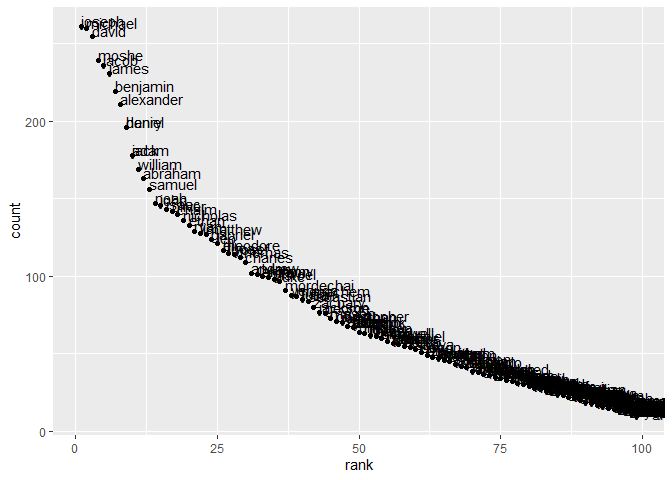
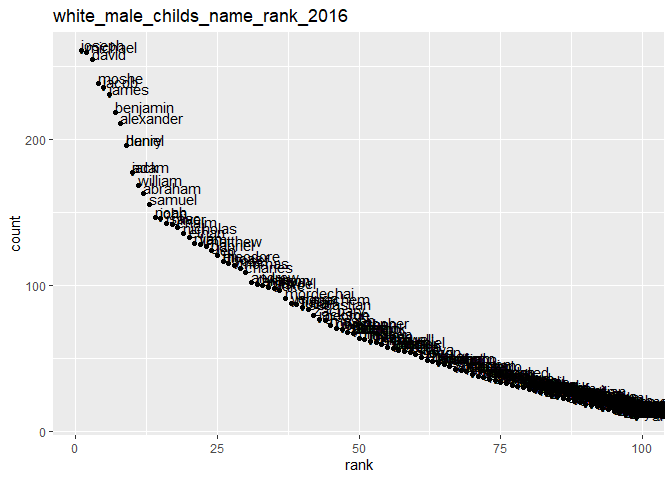
some editings

diff --git a/p8105_hw2.md b/p8105_hw2.md
@@ -10,7 +10,7 @@ library(readxl)
 
 # Problem 1
 
-## Problem 1 (1)
+## Problem 1 (a)
 
 Read and clean the Mr. Trash Wheel sheet:
 
@@ -54,7 +54,7 @@ trashw_df =
 
     ## Warning in FUN(X[[i]], ...): unable to translate '<U+00E5>' to native encoding
 
-## Problem 1 (2)
+## Problem 1 (b)
 
 Read and clean precipitation data for 2018 and 2019. For each, omit rows
 without precipitation data and add a variable for year. Next, combine
@@ -178,9 +178,12 @@ Resulting dataset combined three above datasets together. The dimension
 of “union3\_df” is 828, 11 indicating rows and columns respectively. The
 range of years is \[1947, 2015\]. Key variables are year, month,
 gov\_gop, sen\_gop, rep\_gop, gov\_dem, sen\_dem, rep\_dem, president,
-sp\_index, percent\_unemploy.
+sp\_index, percent\_unemploy. This is a comprehensive version of the
+three datasets above.
 
-## Problem 3
+# Problem 3
+
+## Problem 3 (a)
 
 Load and tidy the data. Note that, although these data may seem fairly
 well formatted initially, the names of a categorical predictor and the
@@ -199,6 +202,8 @@ pbname_df =
   distinct()
 ```
 
+## Problem 3 (b)
+
 Produce a well-structured, reader-friendly table showing the rank in
 popularity of the name “Olivia” as a female baby name over time; this
 should have rows for ethnicities and columns for year.
@@ -216,7 +221,20 @@ olivia_df =
     values_from = "rank"
   ) %>% 
   knitr::kable(caption = "childs_name_olivia_rank_overtime_female")
+
+olivia_df
 ```
+
+| ethnicity                  | 2016 | 2015 | 2014 | 2013 | 2012 | 2011 |
+|:---------------------------|-----:|-----:|-----:|-----:|-----:|-----:|
+| ASIAN AND PACIFIC ISLANDER |    1 |    1 |    1 |    3 |    3 |    4 |
+| BLACK NON HISPANIC         |    8 |    4 |    8 |    6 |    8 |   10 |
+| HISPANIC                   |   13 |   16 |   16 |   22 |   22 |   18 |
+| WHITE NON HISPANIC         |    1 |    1 |    1 |    1 |    4 |    2 |
+
+childs\_name\_olivia\_rank\_overtime\_female
+
+## Problem 3 (c)
 
 Produce a similar table showing the most popular name among male
 children over time.
@@ -234,7 +252,20 @@ popular_df =
   ) %>% 
   select(-c(rank, gender)) %>% 
   knitr::kable(caption = "most_popular_childs_name_overtime_male")
+
+popular_df
 ```
+
+| ethnicity                  | 2016   | 2015   | 2014   | 2013   | 2012   | 2011    |
+|:---------------------------|:-------|:-------|:-------|:-------|:-------|:--------|
+| ASIAN AND PACIFIC ISLANDER | ethan  | jayden | jayden | jayden | ryan   | ethan   |
+| BLACK NON HISPANIC         | noah   | noah   | ethan  | ethan  | jayden | jayden  |
+| HISPANIC                   | liam   | liam   | liam   | jayden | jayden | jayden  |
+| WHITE NON HISPANIC         | joseph | david  | joseph | david  | joseph | michael |
+
+most\_popular\_childs\_name\_overtime\_male
+
+## Problem 3 (d)
 
 Finally, for male, white non-hispanic children born in 2016, produce a
 scatter plot showing the number of children with a name (y axis) against
@@ -248,7 +279,12 @@ whitem_df =
     ethnicity == "WHITE NON HISPANIC",
     year_of_birth == 2016
   ) %>% 
-  ggplot(label = "white_male_children_name_rank_2016", aes(x = rank, y = count)) + 
+  ggplot(aes(x = rank, y = count)) + 
   geom_point() + 
-  geom_text(aes(label = childs_first_name), hjust = 0, vjust = 0)
+  geom_text(aes(label = childs_first_name), hjust = 0, vjust = 0) + 
+  ggtitle("white_male_childs_name_rank_2016")
+
+whitem_df
 ```
+
+![](p8105_hw2_files/figure-gfm/unnamed-chunk-11-1.png)<!-- -->
